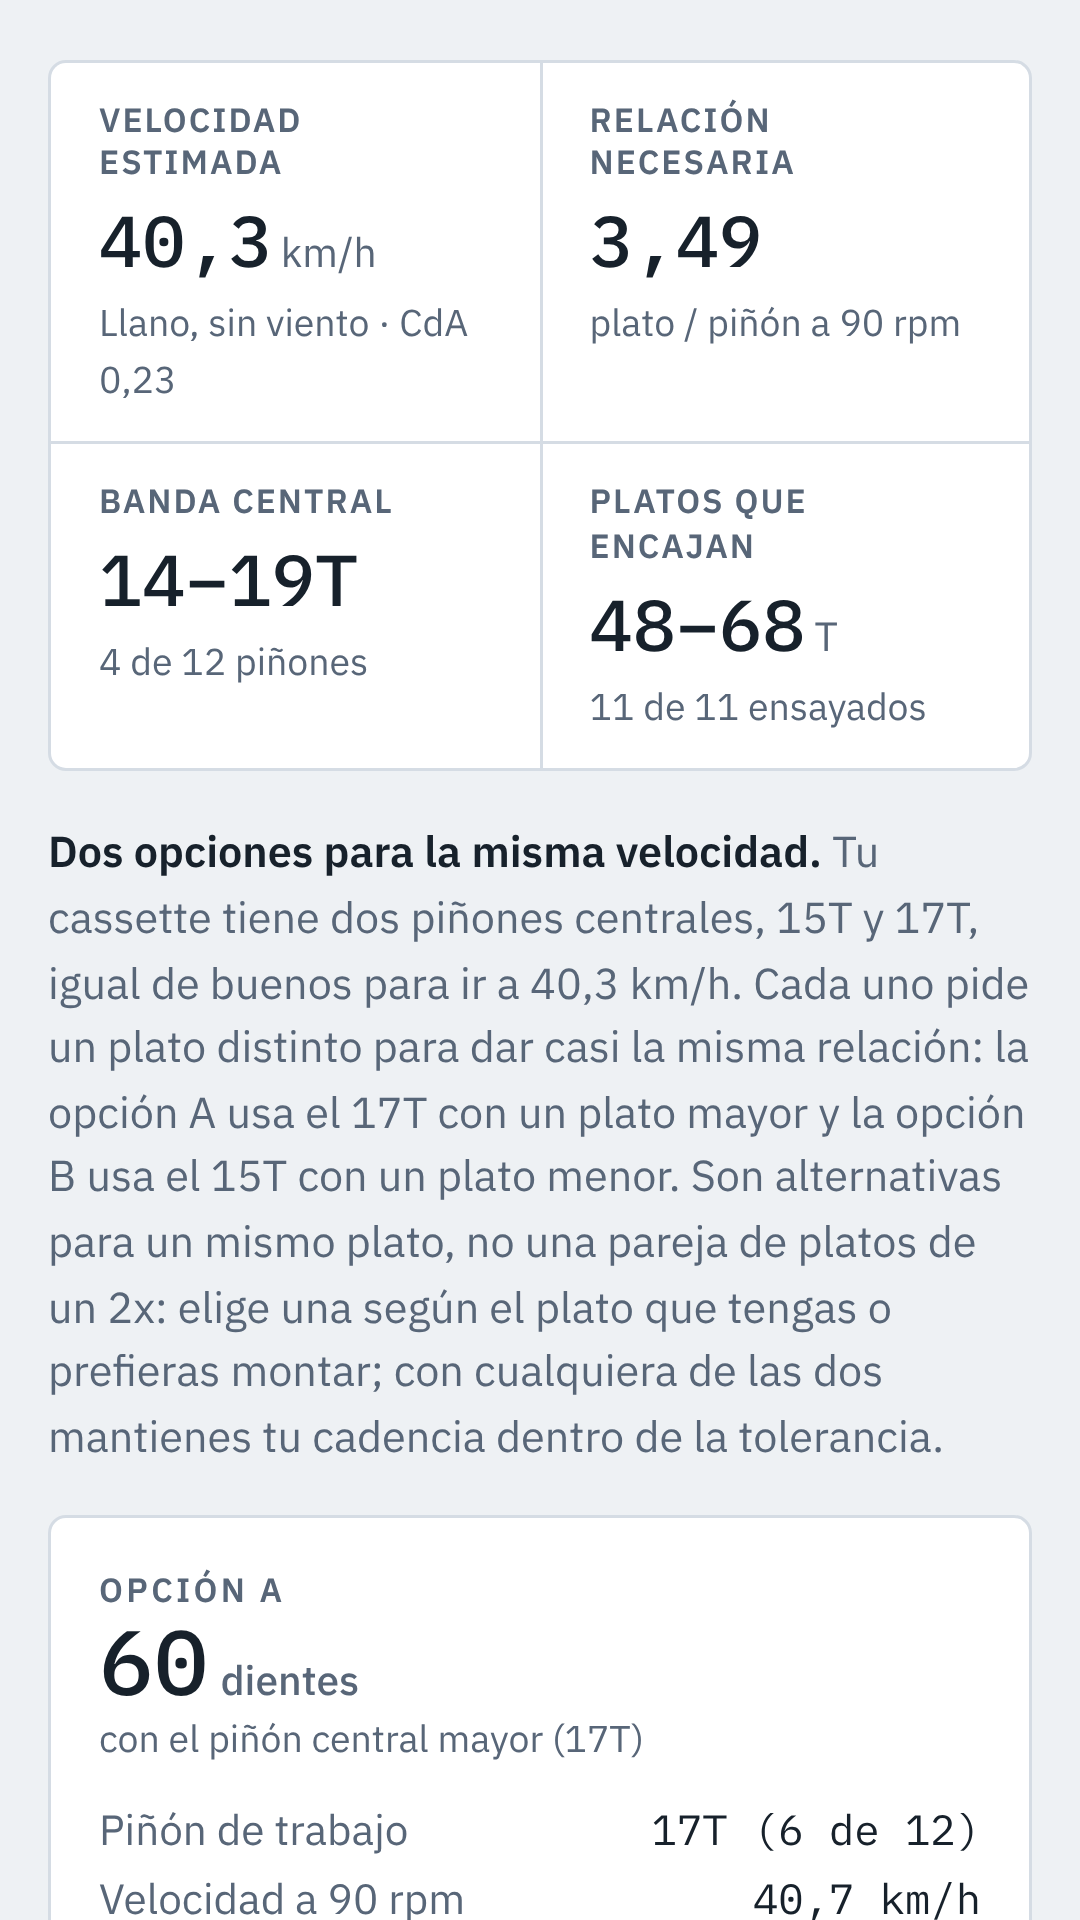
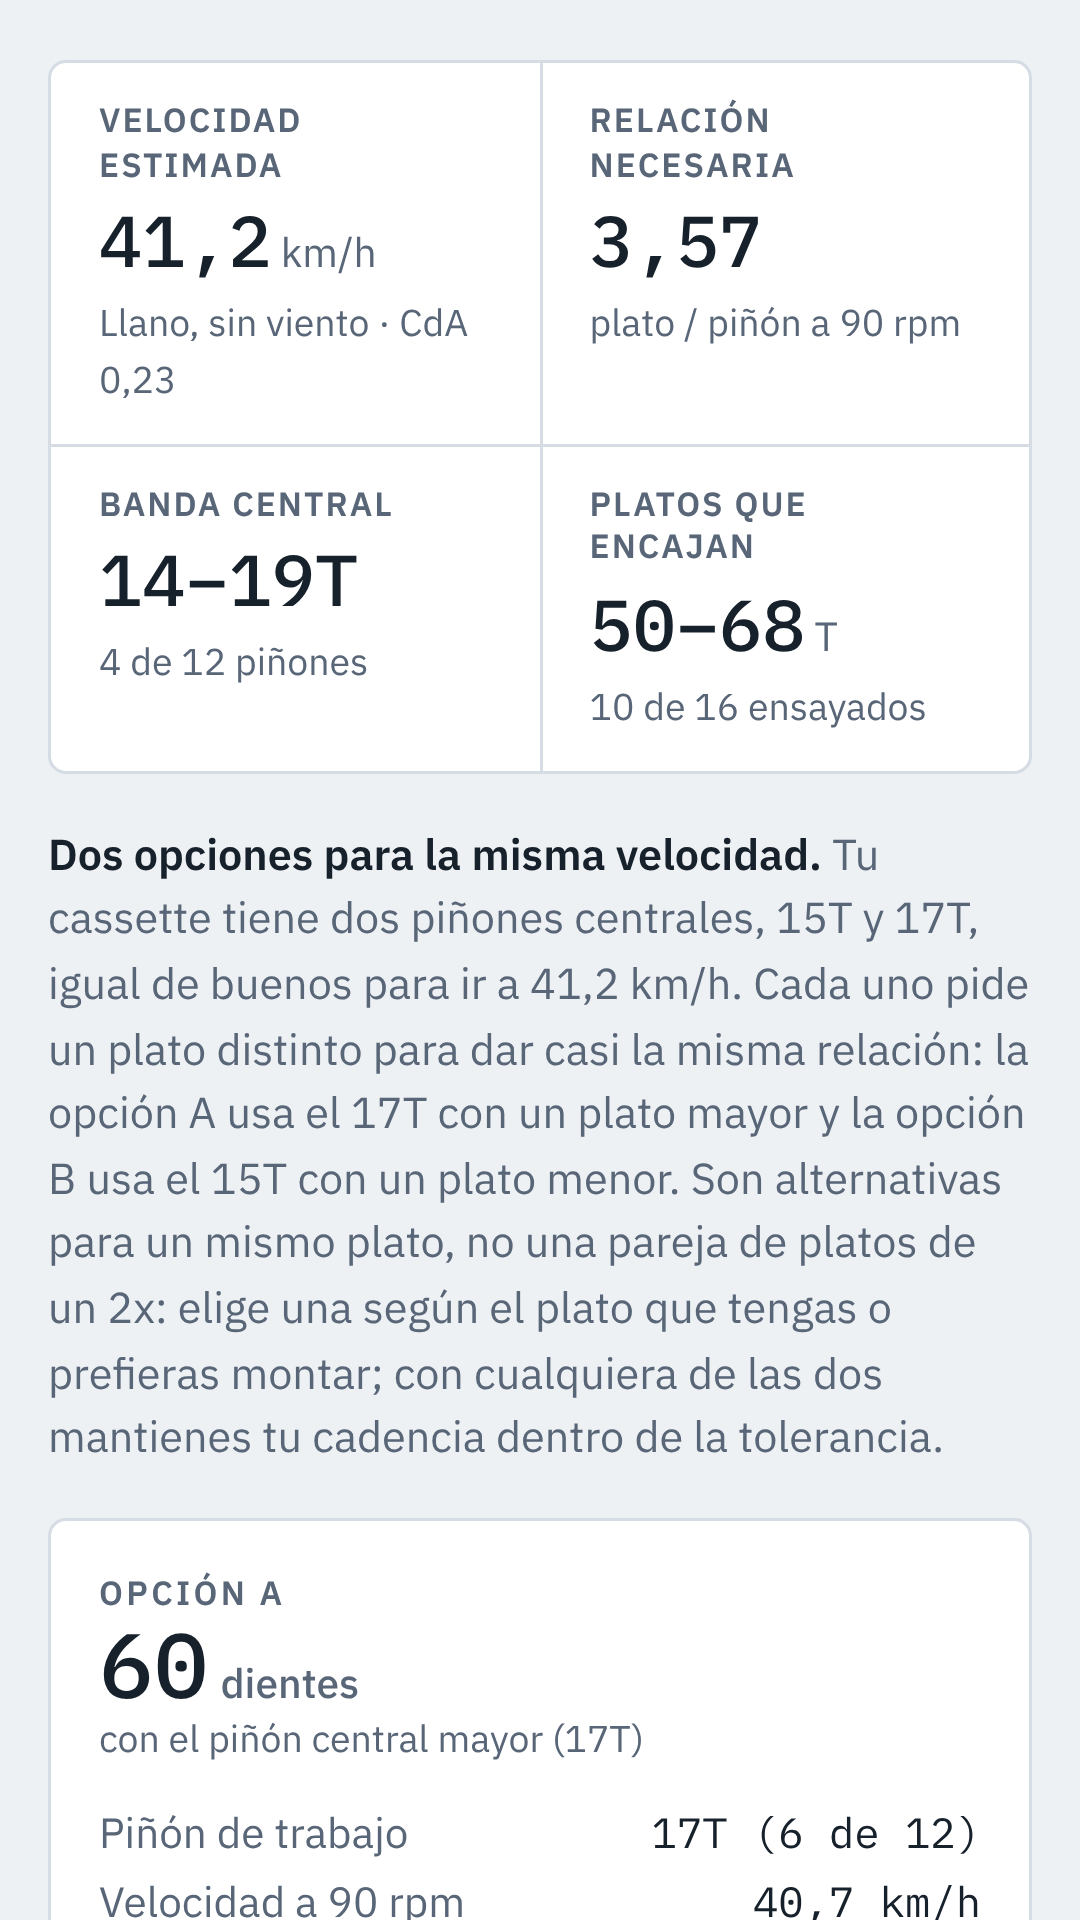
feat: reordenar los campos principales y ajustar valores por defecto
- Orden: cassette, cadencia objetivo, potencia objetivo, FTP y plato fijo; el CdA pasa a
  los ajustes avanzados. Los cuatro campos numéricos van en una fila en pantallas anchas.
- Valores por defecto: potencia media 250 W y plato mínimo a ensayar 38 T.
- test: la monotonía de las opciones A/B se comprueba con el rango por defecto 38–68 T y
  sin excluir los extremos (150–400 W, todos los cassettes, 90 rpm).
- docs: README y CHANGELOG; capturas y gráfico de Play regenerados.

Claude-Session: https://claude.ai/code/session_01HU79VpV1XnotLDyT5Vd8zc

diff --git a/index.html b/index.html
@@ -72,7 +72,7 @@
   .panel { background: var(--surface); border: 1px solid var(--line); border-radius: 6px; padding: 16px; }
   .inputs { display: grid; grid-template-columns: minmax(0, 1fr); gap: 14px 16px; align-items: start; }
   @media (min-width: 560px) { .inputs { grid-template-columns: repeat(2, minmax(0, 1fr)); } }
-  @media (min-width: 860px) { .inputs { grid-template-columns: repeat(3, minmax(0, 1fr)); } }
+  @media (min-width: 860px) { .inputs { grid-template-columns: repeat(3, minmax(0, 1fr)); } .inputs.main { grid-template-columns: repeat(4, minmax(0, 1fr)); } }
   .field { display: flex; flex-direction: column; gap: 4px; min-width: 0; }
   .field.wide { grid-column: 1 / -1; }
   label, .lbl { font-size: .7rem; text-transform: uppercase; letter-spacing: .06em; line-height: 1.3; color: var(--muted); font-weight: 600; }
@@ -167,7 +167,7 @@
   </div>
 
   <section class="panel">
-    <div class="inputs">
+    <div class="inputs main">
       <div class="field wide">
         <label for="cassette" data-i18n="lbl_cassette"></label>
         <select id="cassette"></select>
@@ -178,8 +178,12 @@
         <span class="hint" id="customHint"></span>
       </div>
       <div class="field">
+        <label for="cad" data-i18n="lbl_cad"></label>
+        <input id="cad" type="number" inputmode="decimal" min="50" max="130" step="1" value="90">
+      </div>
+      <div class="field">
         <label for="power" data-i18n="lbl_power"></label>
-        <input id="power" type="number" inputmode="decimal" min="50" max="600" step="1" value="235">
+        <input id="power" type="number" inputmode="decimal" min="50" max="600" step="1" value="250">
       </div>
       <div class="field">
         <label for="ftp" data-i18n="lbl_ftp"></label>
@@ -187,17 +191,15 @@
         <span class="hint" data-i18n="hint_ftp"></span>
       </div>
       <div class="field">
-        <label for="cad" data-i18n="lbl_cad"></label>
-        <input id="cad" type="number" inputmode="decimal" min="50" max="130" step="1" value="90">
-      </div>
-      <div class="field">
-        <label for="cda" data-i18n="lbl_cda"></label>
-        <input id="cda" type="number" inputmode="decimal" min="0.1" max="0.6" step="0.005" value="0.23">
+        <label for="cfix" data-i18n="lbl_cfix"></label>
+        <input id="cfix" type="number" inputmode="numeric" min="20" max="90" step="1" data-i18n-ph="ph_sim">
+        <span class="hint" data-i18n="hint_cfix"></span>
       </div>
     </div>
     <details class="adv">
       <summary data-i18n="adv"></summary>
       <div class="inputs">
+        <div class="field"><label for="cda" data-i18n="lbl_cda"></label><input id="cda" type="number" inputmode="decimal" min="0.1" max="0.6" step="0.005" value="0.23"></div>
         <div class="field"><label for="mass" data-i18n="lbl_mass"></label><input id="mass" type="number" inputmode="decimal" min="40" max="200" step="0.5" value="85"></div>
         <div class="field"><label for="crr" data-i18n="lbl_crr"></label><input id="crr" type="number" inputmode="decimal" min="0.001" max="0.02" step="0.0005" value="0.004"></div>
         <div class="field"><label for="rho" data-i18n="lbl_rho"></label><input id="rho" type="number" inputmode="decimal" min="0.9" max="1.4" step="0.01" value="1.19"></div>
@@ -212,8 +214,7 @@
           </select>
         </div>
         <div class="field" id="wheelBox" hidden><label for="wheelMm" data-i18n="lbl_wheelmm"></label><input id="wheelMm" type="number" inputmode="decimal" min="1800" max="2300" step="1" value="2136"></div>
-        <div class="field"><label for="cfix" data-i18n="lbl_cfix"></label><input id="cfix" type="number" inputmode="numeric" min="20" max="90" step="1" data-i18n-ph="ph_sim"><span class="hint" data-i18n="hint_cfix"></span></div>
-        <div class="field"><label for="cmin" data-i18n="lbl_cmin"></label><input id="cmin" type="number" inputmode="numeric" min="30" max="70" step="2" value="48"></div>
+        <div class="field"><label for="cmin" data-i18n="lbl_cmin"></label><input id="cmin" type="number" inputmode="numeric" min="30" max="70" step="2" value="38"></div>
         <div class="field"><label for="cmax" data-i18n="lbl_cmax"></label><input id="cmax" type="number" inputmode="numeric" min="30" max="70" step="2" value="68"><span class="hint" data-i18n="hint_even"></span></div>
         <div class="field"><label for="kband" data-i18n="lbl_kband"></label><input id="kband" type="number" inputmode="numeric" min="1" max="13" step="1" data-i18n-ph="ph_auto"><span class="hint" data-i18n="hint_kband"></span></div>
         <div class="field"><label for="tol" data-i18n="lbl_tol"></label><input id="tol" type="number" inputmode="decimal" min="1" max="20" step="1" value="6"><span class="hint" data-i18n="hint_tol"></span></div>

diff --git a/tests/logic.test.js b/tests/logic.test.js
@@ -180,16 +180,14 @@ test("climbTable: oculta lo que supera el umbral y sin FTP no hay %FTP ni rango"
 });
 
 // Monotonía: con cada ancla fija, el plato propuesto no baja al subir la potencia.
-test("analyze: con los ajustes por defecto, cada opción solo sube o se mantiene al subir la potencia (150–400 W, todos los cassettes)", () => {
+test("analyze: con los ajustes por defecto (90 rpm, platos 38–68 T), cada opción solo sube o se mantiene al subir la potencia (150–400 W, todos los cassettes)", () => {
   for (const g of C.PRESETS) for (const it of g.items) {
     if (!it.cogs) continue;
     const prev = {};
     for (let P = 150; P <= 400; P += 1) {
-      const r = C.analyze(it.cogs, C.solveSpeed(P, O) * 3.6, 90, CIRC, 48, 68, undefined, 6);
+      const r = C.analyze(it.cogs, C.solveSpeed(P, O) * 3.6, 90, CIRC, 38, 68, undefined, 6);
       for (const p of r.props) {
         if (p.label === "one") continue;
-        // Los extremos del rango (48 y 68 T) rompen la familia por diseño: se comprueba solo en el interior.
-        if (p.row.chain <= 50 || p.row.chain >= 66) { delete prev[p.label]; continue; }
         if (prev[p.label] != null) assert.ok(p.row.chain >= prev[p.label], `${it.id} ${p.label} ${P} W: ${prev[p.label]} → ${p.row.chain}`);
         prev[p.label] = p.row.chain;
       }

diff --git a/README.md b/README.md
@@ -17,8 +17,8 @@ Calculadora para triatlón y contrarreloj. Dado el cassette, la potencia media y
 ## Uso
 
 1. Elige el cassette (o escribe los piñones en «Personalizado»).
-2. Indica potencia media, cadencia objetivo y CdA (0,23 m² por defecto). La velocidad objetivo se calcula con el modelo de abajo.
-3. Ajusta el rango de platos a simular, o fija un plato concreto.
+2. Indica la cadencia objetivo (90 rpm por defecto) y la potencia media (250 W por defecto); opcionalmente tu FTP, para ver el % de FTP en la tabla de subidas, y un plato fijo. El CdA (0,23 m² por defecto) y el resto de parámetros del modelo están en los ajustes avanzados. La velocidad objetivo se calcula con el modelo de abajo.
+3. Ajusta el rango de platos a simular (38–68 T por defecto) en los ajustes avanzados, o fija un plato concreto en el campo «Plato fijo».
 4. Lee las dos tarjetas (Opción A / Opción B) y la tabla de velocidades por marcha. Son **alternativas para un mismo plato** (no una pareja de platos de un 2x) y la explicación sobre ellas dice cuándo elegir cada una.
 5. **Subidas.** El desplegable «Subidas» (cerrado por defecto, pensado para usuarios avanzados) da la potencia que cuesta mantener, a tu cadencia objetivo, la velocidad de cada piñón en pendientes del 0 al 15 % (elige Opción A u Opción B). Si indicas tu **FTP**, cada celda muestra también el % de FTP y se colorea según el esfuerzo típico de ese rango (leyenda bajo la tabla). Las celdas de más de 1000 W se ocultan.
 
@@ -30,7 +30,7 @@ Potencia en rueda = potencia × eficiencia = ½·ρ·CdA·v³ + Crr·m·g·v, en
 
 Solo se simulan platos de dentado par. Para cada uno se busca el piñón más cercano a la velocidad objetivo; **encaja** si ese piñón está en la banda central del cassette (un tercio de los piñones, mínimo 3) y la cadencia necesaria queda dentro de la tolerancia (±6 rpm por defecto). Con un número par de piñones en la banda central hay **dos piñones centrales** igual de buenos, y cada uno pide un plato distinto para dar casi la misma relación: la **opción A** se apoya en el piñón central mayor (y pide el plato mayor) y la **opción B** en el menor (y pide el plato menor); no son dos platos de un 2x, sino alternativas para un mismo plato; en cada uno se elige el plato par que encaja con menor error de velocidad. Si la banda tiene un número impar de piñones, hay un único piñón central y una única propuesta. La app avisa si alguna de las dos opciones no tiene plato que encaje dentro del rango ensayado.
 
-Anclar cada opción siempre al mismo piñón hace que, al subir la potencia, el plato propuesto solo suba o se mantenga. Con los ajustes por defecto (90 rpm, rango 48–68 T) esto se comprueba en las pruebas para todos los cassettes de la lista de 150 a 400 W, salvo en los extremos del rango (≤ 50 T o ≥ 66 T), donde la familia de platos puede salirse del rango; si cambias la cadencia o la tolerancia, no está garantizado.
+Anclar cada opción siempre al mismo piñón hace que, al subir la potencia, el plato propuesto solo suba o se mantenga. Con los ajustes por defecto (90 rpm, platos 38–68 T, tolerancia ±6 rpm) las pruebas lo comprueban para todos los cassettes de la lista y de 150 a 400 W. Con otras cadencias o una tolerancia más estricta no está garantizado: en los extremos del rango de platos ensayado la familia de platos puede salirse del rango (en simulaciones con 80 y 100 rpm hubo retrocesos en esos extremos).
 
 ## Limitaciones
 

diff --git a/CHANGELOG.md b/CHANGELOG.md
@@ -5,6 +5,8 @@ Formato basado en [Keep a Changelog](https://keepachangelog.com/es-ES/1.1.0/) y 
 ## [Sin publicar]
 
 ### Cambiado
+- Campos principales reordenados: cassette, cadencia objetivo, potencia objetivo, FTP y plato fijo. El CdA pasa a los ajustes avanzados.
+- Valores por defecto: potencia media 250 W (antes 235 W) y plato mínimo a ensayar 38 T (antes 48 T).
 - Los tres platos Grande / Medio / Bajo (Medio ±2 dientes) pasan a **dos opciones alternativas**: «Opción A» y «Opción B», apoyadas respectivamente en el piñón central mayor y en el menor del cassette (alternativas para un mismo plato, no un 2x), con una explicación para el usuario. Así el plato propuesto ya no salta entre dos familias al subir la potencia (antes, p. ej. 56 → 50 → 58 → 52 T entre 200 y 220 W en un 10-30). Con una banda de nº impar de piñones hay una única propuesta. Cierra el pendiente del desempate de «Medio».
 - Capturas y gráfico de funciones de la ficha de Google Play regenerados con la nueva interfaz; se añade una captura de la tabla de subidas.
 
